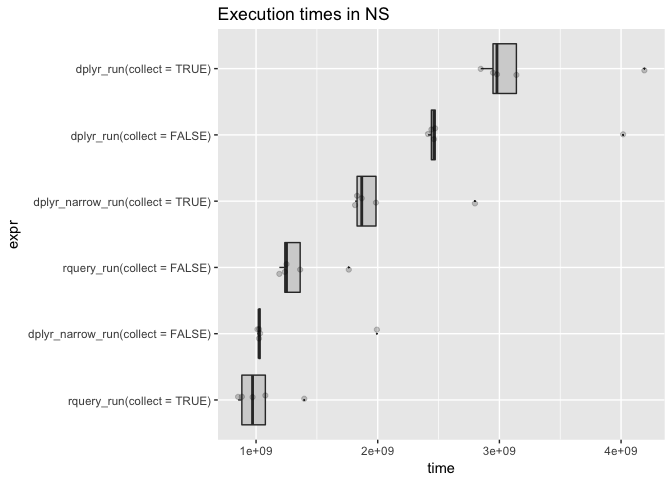
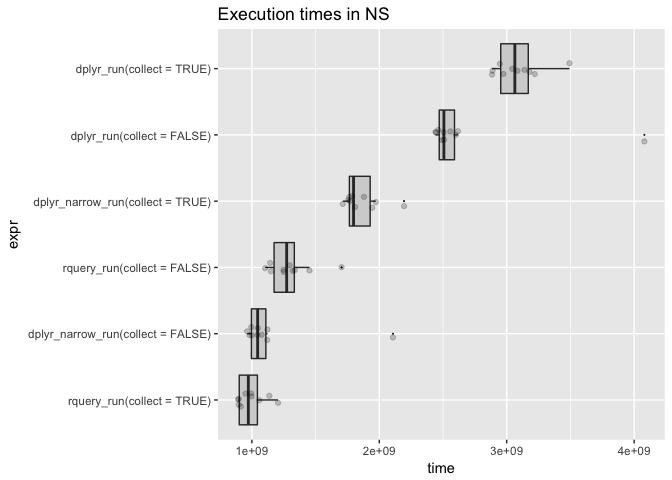
larger run

diff --git a/extras/PerfTest.md b/extras/PerfTest.md
@@ -129,12 +129,12 @@ head(rquery_run(collect=TRUE))
 ```
 
     ##   subjectID           diagnosis probability
-    ## 1         1 withdrawal behavior   0.7658456
-    ## 2         2 positive re-framing   0.6706221
-    ## 3         3 positive re-framing   0.8940695
+    ## 1         1 positive re-framing   0.6706221
+    ## 2         2 positive re-framing   0.5589742
+    ## 3         3 positive re-framing   0.7658456
     ## 4         4 withdrawal behavior   0.6163301
-    ## 5         5 positive re-framing   0.5589742
-    ## 6         6 positive re-framing   0.6706221
+    ## 5         5 withdrawal behavior   0.5000000
+    ## 6         6 withdrawal behavior   0.5000000
 
 ``` r
 dR <- rquery_run(collect=FALSE) 
@@ -143,12 +143,12 @@ DBI::dbGetQuery(my_db,
 ```
 
     ##   subjectID           diagnosis probability
-    ## 1     23266 withdrawal behavior   0.5589742
-    ## 2     23267 withdrawal behavior   0.5000000
-    ## 3     23268 withdrawal behavior   0.6706221
-    ## 4     23269 positive re-framing   0.8401037
-    ## 5     23270 withdrawal behavior   0.7207128
-    ## 6     23271 positive re-framing   0.5589742
+    ## 1     23266 positive re-framing   0.8401037
+    ## 2     23267 withdrawal behavior   0.5589742
+    ## 3     23268 withdrawal behavior   0.5589742
+    ## 4     23269 withdrawal behavior   0.5589742
+    ## 5     23270 positive re-framing   0.8056518
+    ## 6     23271 withdrawal behavior   0.6163301
 
 ``` r
 head(dplyr_run(collect=TRUE))
@@ -157,12 +157,12 @@ head(dplyr_run(collect=TRUE))
     ## # A tibble: 6 x 3
     ##   subjectID diagnosis           probability
     ##       <int> <chr>                     <dbl>
-    ## 1         1 withdrawal behavior       0.766
-    ## 2         2 positive re-framing       0.671
-    ## 3         3 positive re-framing       0.894
+    ## 1         1 positive re-framing       0.671
+    ## 2         2 positive re-framing       0.559
+    ## 3         3 positive re-framing       0.766
     ## 4         4 withdrawal behavior       0.616
-    ## 5         5 positive re-framing       0.559
-    ## 6         6 positive re-framing       0.671
+    ## 5         5 withdrawal behavior       0.500
+    ## 6         6 withdrawal behavior       0.500
 
 ``` r
 head(dplyr_run(collect=FALSE))
@@ -173,12 +173,12 @@ head(dplyr_run(collect=FALSE))
     ## # Ordered by: probability, surveyCategory, subjectID
     ##   subjectID diagnosis           probability
     ##       <int> <chr>                     <dbl>
-    ## 1         1 withdrawal behavior       0.766
-    ## 2         2 positive re-framing       0.671
-    ## 3         3 positive re-framing       0.894
+    ## 1         1 positive re-framing       0.671
+    ## 2         2 positive re-framing       0.559
+    ## 3         3 positive re-framing       0.766
     ## 4         4 withdrawal behavior       0.616
-    ## 5         5 positive re-framing       0.559
-    ## 6         6 positive re-framing       0.671
+    ## 5         5 withdrawal behavior       0.500
+    ## 6         6 withdrawal behavior       0.500
 
 ``` r
 head(dplyr_narrow_run(collect=TRUE))
@@ -187,12 +187,12 @@ head(dplyr_narrow_run(collect=TRUE))
     ## # A tibble: 6 x 3
     ##   subjectID diagnosis           probability
     ##       <int> <chr>                     <dbl>
-    ## 1         1 withdrawal behavior       0.766
-    ## 2         2 positive re-framing       0.671
-    ## 3         3 positive re-framing       0.894
+    ## 1         1 positive re-framing       0.671
+    ## 2         2 positive re-framing       0.559
+    ## 3         3 positive re-framing       0.766
     ## 4         4 withdrawal behavior       0.616
-    ## 5         5 positive re-framing       0.559
-    ## 6         6 positive re-framing       0.671
+    ## 5         5 withdrawal behavior       0.500
+    ## 6         6 withdrawal behavior       0.500
 
 ``` r
 head(dplyr_narrow_run(collect=FALSE))
@@ -203,12 +203,12 @@ head(dplyr_narrow_run(collect=FALSE))
     ## # Ordered by: probability, surveyCategory, subjectID
     ##   subjectID diagnosis           probability
     ##       <int> <chr>                     <dbl>
-    ## 1         1 withdrawal behavior       0.766
-    ## 2         2 positive re-framing       0.671
-    ## 3         3 positive re-framing       0.894
+    ## 1         1 positive re-framing       0.671
+    ## 2         2 positive re-framing       0.559
+    ## 3         3 positive re-framing       0.766
     ## 4         4 withdrawal behavior       0.616
-    ## 5         5 positive re-framing       0.559
-    ## 6         6 positive re-framing       0.671
+    ## 5         5 withdrawal behavior       0.500
+    ## 6         6 withdrawal behavior       0.500
 
 Get timings:
 
@@ -219,40 +219,47 @@ timings <- microbenchmark(rquery_run(collect=TRUE),
                           rquery_run(collect=FALSE), 
                           dplyr_run(collect=FALSE), 
                           dplyr_narrow_run(collect=FALSE),
-                          times = 5)
+                          times = 10)
 ```
 
 Present results:
 
 ``` r
+library("seplyr")
 print(timings)
 ```
 
     ## Unit: milliseconds
-    ##                               expr       min        lq     mean    median
-    ##         rquery_run(collect = TRUE)  852.4234  883.2189 1035.888  971.1829
-    ##          dplyr_run(collect = TRUE) 2846.5903 2947.5404 3221.077 2979.9342
-    ##   dplyr_narrow_run(collect = TRUE) 1813.7023 1830.2815 2059.438 1868.6196
-    ##        rquery_run(collect = FALSE) 1191.4176 1236.4188 1360.514 1250.1025
-    ##         dplyr_run(collect = FALSE) 2412.9631 2440.9851 2760.945 2462.2562
-    ##  dplyr_narrow_run(collect = FALSE) 1011.5834 1023.8456 1217.153 1024.3949
+    ##                               expr       min        lq      mean    median
+    ##         rquery_run(collect = TRUE)  892.0101  896.8602  994.2866  972.2644
+    ##          dplyr_run(collect = TRUE) 2884.5172 2946.1438 3085.2615 3063.6427
+    ##   dplyr_narrow_run(collect = TRUE) 1713.5280 1763.7386 1859.0310 1798.0427
+    ##        rquery_run(collect = FALSE) 1104.3129 1149.7069 1300.5927 1273.1459
+    ##         dplyr_run(collect = FALSE) 2441.4055 2463.1594 2671.1164 2507.0583
+    ##  dplyr_narrow_run(collect = FALSE)  963.2254  995.2204 1145.9472 1045.4177
     ##        uq      max neval
-    ##  1076.436 1396.178     5
-    ##  3139.711 4191.610     5
-    ##  1985.652 2798.933     5
-    ##  1362.568 1762.064     5
-    ##  2472.000 4016.522     5
-    ##  1033.052 1992.887     5
+    ##  1058.638 1205.634    10
+    ##  3178.923 3492.271    10
+    ##  1944.545 2194.239    10
+    ##  1337.420 1704.278    10
+    ##  2601.071 4080.219    10
+    ##  1120.694 2107.208    10
 
 ``` r
 tdf <- as.data.frame(timings)
-tdf$expr <- reorder(tdf$expr, tdf$time)
+tdf <- tdf %.>%
+  group_by_se(., "expr") %.>%
+  mutate_se(., qae(mtime := median(time)))
+
+tdf$expr <- reorder(tdf$expr, tdf$mtime)
 WVPlots::ScatterBoxPlotH(tdf, "time", "expr",  
                          pt_alpha=0.2,
                          title="Execution times in NS")
 ```
 
 ![](PerfTest_files/figure-markdown_github/present-1.png)
+
+Guessing speed of the `dplyr_narrow_run(collect=FALSE)` is a sign it is probably an in-memory temp table.
 
 ``` r
 sparklyr::spark_disconnect(my_db)
